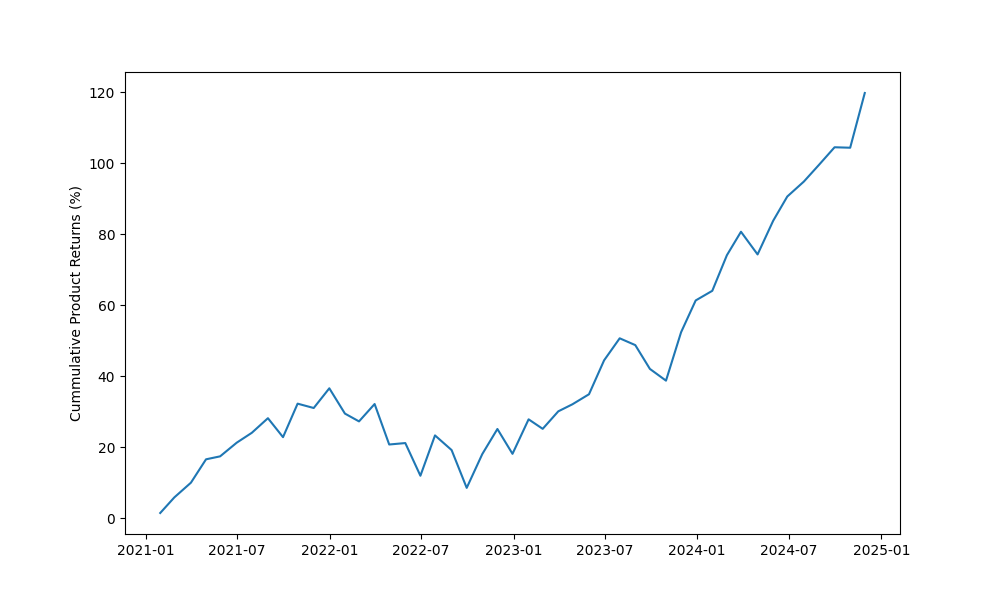
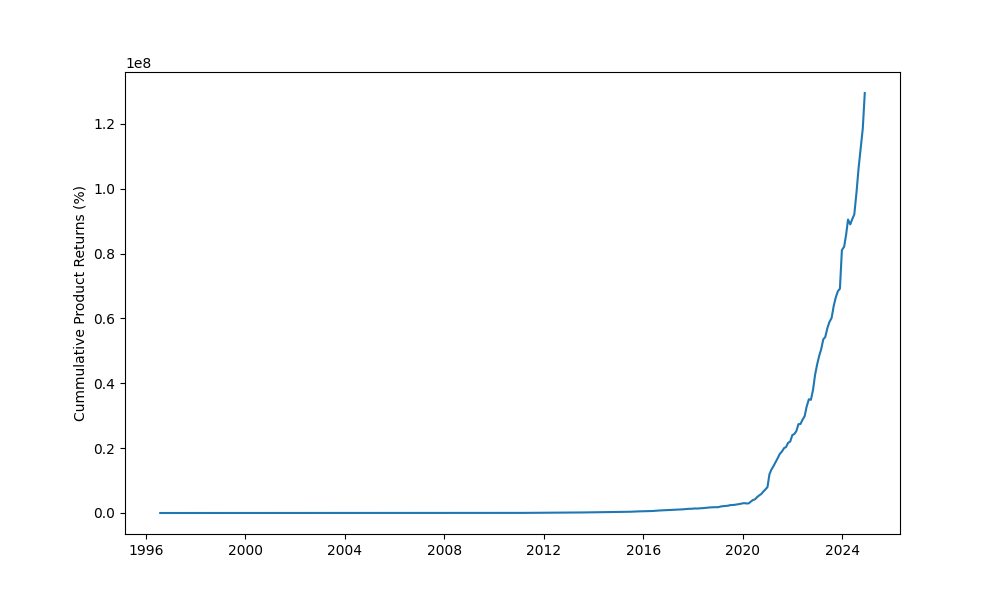
Andrew/more backtester fixes (#25)
* Fixed missing barra data values.

* Optimized momentum backtest. Lagged and constrained.

* Fixes to risk model, dataset, and momentum z strategy.

* Fixed strategies to be in percent space.

diff --git a/silverfund/strategies/reversal_z_strategy.py b/silverfund/strategies/reversal_z_strategy.py
@@ -7,26 +7,29 @@ from silverfund.optimizers.new_constraints import Constraint
 from silverfund.strategies.strategy import Strategy
 
 
-class MomentumZStrategy(Strategy):
+class ReversalZStrategy(Strategy):
     def __init__(self, interval: Interval):
         self._interval = interval
-        self._window = {Interval.DAILY: 252, Interval.MONTHLY: 13}[self._interval]
-        self._rolling_window = {Interval.DAILY: 230, Interval.MONTHLY: 11}[self._interval]
-        self._lag = {Interval.DAILY: 22, Interval.MONTHLY: 2}[self._interval]
+        self._window = {Interval.DAILY: 23, Interval.MONTHLY: 2}[self._interval]
+        self._rolling_window = {Interval.DAILY: 22, Interval.MONTHLY: 1}[self._interval]
+        self._lag = {Interval.DAILY: 1, Interval.MONTHLY: 1}[self._interval]
 
     def compute_signal(self, chunk: pl.DataFrame) -> pl.DataFrame:
-        # Momentum signal formation
+        # Reversal signal formation
         chunk = chunk.with_columns(pl.col("ret").log1p().alias("logret")).with_columns(
             pl.col("logret")
             .rolling_sum(
                 window_size=self._rolling_window, min_periods=self._rolling_window, center=False
             )
             .over("barrid")
-            .alias("mom")
+            .alias("rev")
         )
 
-        # Momentum lag/skip
-        chunk = chunk.with_columns(pl.col("mom").shift(self._lag).over("barrid").alias("mom_lag"))
+        # Negate signal
+        chunk = chunk.with_columns(-pl.col("rev"))
+
+        # Reversal lag/skip
+        chunk = chunk.with_columns(pl.col("rev").shift(self._lag).over("barrid").alias("rev_lag"))
 
         # Lag total_risk
         chunk = chunk.with_columns(
@@ -36,12 +39,12 @@ class MomentumZStrategy(Strategy):
         # Lag predbeta
         chunk = chunk.with_columns(pl.col("predbeta").shift(1).over("barrid").alias("predbeta_lag"))
 
-        # Non-null momentum
-        chunk = chunk.drop_nulls(subset="mom_lag")
+        # Non-null reversal
+        chunk = chunk.drop_nulls(subset="rev_lag")
 
         # Put in percent space
         chunk = chunk.with_columns(
-            pl.col("mom_lag") * 100,
+            pl.col("rev_lag") * 100,
             pl.col("total_risk_lag") * 100,
         )
 
@@ -50,9 +53,9 @@ class MomentumZStrategy(Strategy):
     def compute_score(self, chunk: pl.DataFrame) -> pl.DataFrame:
         chunk = self.compute_signal(chunk)
 
-        # Z-score the momentum signal
+        # Z-score the reversal signal
         chunk = chunk.with_columns(
-            ((pl.col("mom_lag") - pl.col("mom_lag").mean()) / pl.col("mom_lag").std()).alias(
+            ((pl.col("rev_lag") - pl.col("rev_lag").mean()) / pl.col("rev_lag").std()).alias(
                 "score"
             )
         )

diff --git a/silverfund/datasets/master_monthly.py b/silverfund/datasets/master_monthly.py
@@ -45,6 +45,9 @@ class MasterMonthly:
             print("Joining Master + Barra Specific Returns = Master")
         self.df = self.df.join(barra_specific_returns, on=["barrid", "date"], how="left")
 
+        # Clean
+        self.df = self._clean_merged(self.df)
+
         # Sort
         self.df = self.df.sort(by=["barrid", "date"])
 
@@ -53,15 +56,13 @@ class MasterMonthly:
 
     def _universe(self):
         # Load
-        universe = Universe(start_date=self._start_date, end_date=self._end_date).load()
+        universe = Universe().load()
 
         return universe
 
     def _trading_days(self):
         # Load
-        trading_days = TradingDays(
-            start_date=self._start_date, end_date=self._end_date, interval=Interval.MONTHLY
-        ).load_all()
+        trading_days = TradingDays(interval=Interval.MONTHLY).load_all()
 
         return trading_days
 
@@ -232,5 +233,16 @@ class MasterMonthly:
 
         # Drop month and sort
         df = df.drop("month").sort(["barrid", "date"])
+
+        return df
+
+    def _clean_merged(self, df: pl.DataFrame) -> pl.DataFrame:
+        df = df.filter(pl.col("date").is_between(self._start_date, self._end_date))
+
+        # Fill null values
+        df = df.with_columns(
+            pl.col("predbeta").fill_null(strategy="forward").over("barrid"),
+            pl.col("total_risk").fill_null(strategy="forward").over("barrid"),
+        )
 
         return df

diff --git a/silverfund/new_risk_model.py b/silverfund/new_risk_model.py
@@ -14,6 +14,7 @@ class NewRiskModel:
     def __init__(self, date_: date, barrids: list[str]) -> None:
         self._date = date_
         self._barrids = sorted(barrids)
+        self._risk_model: pl.DataFrame = pl.DataFrame()
 
     def _covariance_matrix(self) -> pl.DataFrame:
         # Load
@@ -106,4 +107,16 @@ class NewRiskModel:
 
         risk_model = risk_model.fill_nan(0)
 
+        self._risk_model = risk_model
+
         return risk_model
+
+    def get_variance_vector(self) -> pl.DataFrame:
+        if self._risk_model.is_empty():
+            raise ValueError("Call `.load()` first.")
+
+        variances = self._risk_model.drop("barrid").to_numpy().diagonal()
+
+        variance_df = pl.DataFrame(data={"barrid": self._barrids, "vol": variances})
+
+        return variance_df

diff --git a/silverfund/datasets/trading_days.py b/silverfund/datasets/trading_days.py
@@ -14,10 +14,14 @@ from silverfund.enums import Interval
 class TradingDays:
 
     def __init__(
-        self, start_date: date, end_date: date, interval: Interval, quiet: bool = True
+        self,
+        start_date: date | None = None,
+        end_date: date | None = None,
+        interval: Interval = Interval.MONTHLY,
+        quiet: bool = True,
     ) -> None:
-        self._start_date = start_date
-        self._end_date = end_date
+        self._start_date = start_date or date(1995, 7, 31)  # min date in russell history file
+        self._end_date = end_date or date.today()
         self._interval = interval
         self._quiet = quiet
 

diff --git a/silverfund/optimizers/qp_optimizer.py b/silverfund/optimizers/qp_optimizer.py
@@ -12,7 +12,7 @@ def qp(
     gamma: float = 2.0,
 ):
     alphas = chunk["alpha"].to_numpy()
-    betas = chunk["predbeta"].to_numpy()
+    betas = chunk["predbeta_lag"].to_numpy()
 
     # Declare variables
     n_assets = len(alphas)
@@ -34,11 +34,8 @@ def qp(
     # Solve
     problem.solve()
 
-    # Scale weights
-    scaled_weights = weights.value / sum(weights.value)
-
     # Package portfolio
-    portfolio = chunk.with_columns(pl.Series(scaled_weights).alias("weight")).select(
+    portfolio = chunk.with_columns(pl.Series(weights.value).alias("weight")).select(
         ["date", "barrid", "weight"]
     )
 
